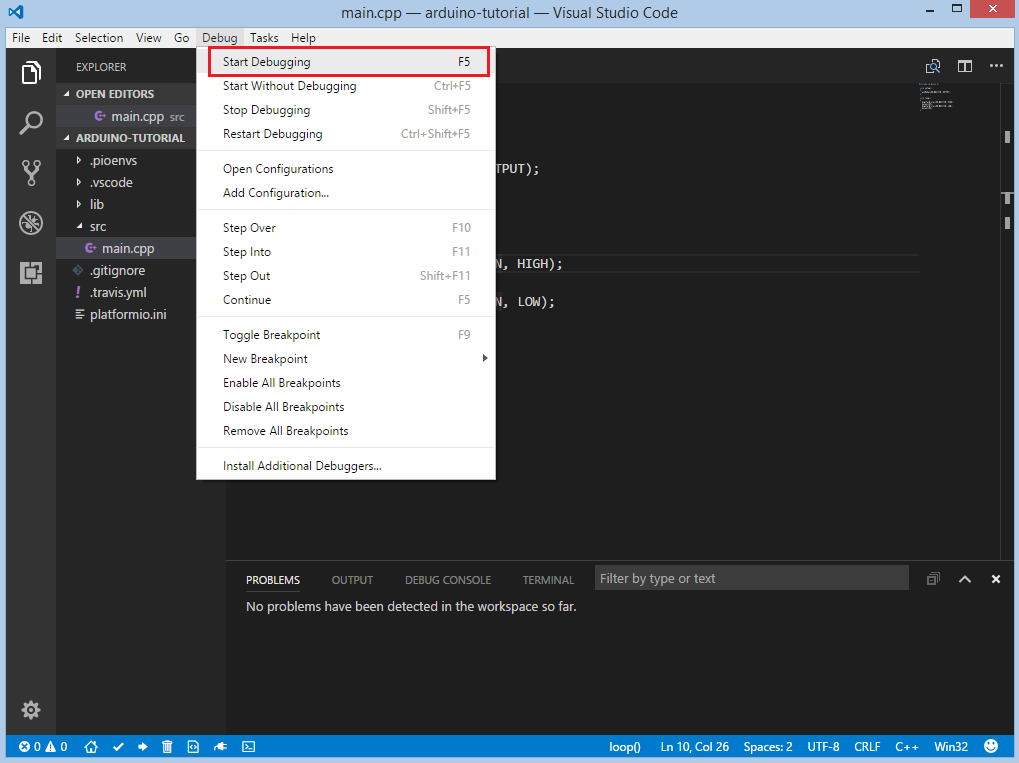
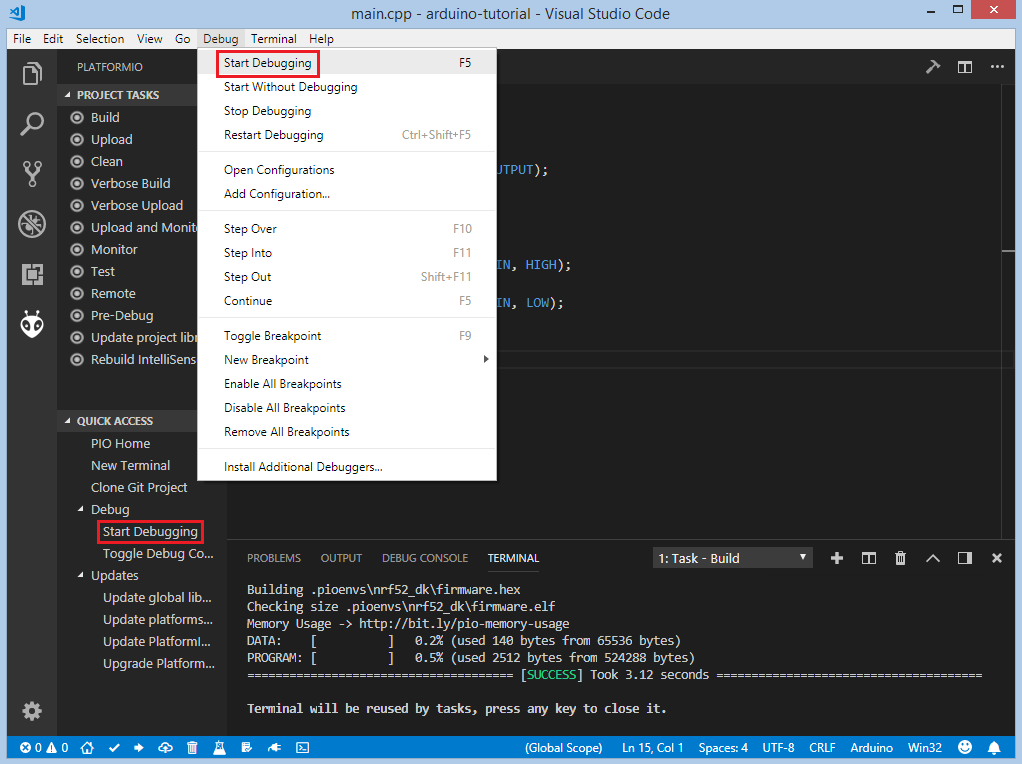
Update Nordic nRF52 tutorial // Issue #33

diff --git a/tutorials/nordicnrf52/arduino_debugging_unit_testing.rst b/tutorials/nordicnrf52/arduino_debugging_unit_testing.rst
@@ -45,7 +45,7 @@ and after these steps, we have a fully configured project that is ready for deve
 Adding Code to the Generated Project
 ------------------------------------
 
-Let's add some actual code to the project. Firstly, we open a default main file named ``main.cpp`` in the :ref:`projectconf_pio_src_dir` folder and replace its content with the next one:
+Let's add some actual code to the project. Firstly, we open a default main file ``main.cpp`` in the :ref:`projectconf_pio_src_dir` folder and replace its contents with the following:
 
 .. code-block:: cpp
 
@@ -71,8 +71,8 @@ After this step, we created a basic blink project ready for compiling and upload
 Compiling and Uploading the Firmware
 ------------------------------------
 
-Now we can build the project. To compile firmware we can use three options:
-Using Build button on :ref:`ide_vscode_toolbar`, using Command Palette ``View: Command Palette > PlatformIO: Build``, using Task Menu ``Tasks: Run Task... > PlatformIO: Build`` or via hotkeys ``cmd-alt-b / ctrl-alt-b``:
+Now we can build the project. To compile firmware we can use next options:
+Build option from the ``Project Tasks`` menu, Build button in :ref:`ide_vscode_toolbar`, Task Menu ``Tasks: Run Task... > PlatformIO: Build`` or in :ref:`ide_vscode_toolbar`, Command Palette ``View: Command Palette > PlatformIO: Build`` or via hotkeys ``cmd-alt-b / ctrl-alt-b``:
 
 .. image:: ../../_static/tutorials/nordicnrf52/arduino-debugging-unit-testing-4.png
 
@@ -80,8 +80,8 @@ If everything went well, we should see a successful result message in the termin
 
 .. image:: ../../_static/tutorials/nordicnrf52/arduino-debugging-unit-testing-5.png
 
-Now we can upload firmware to the board:
-Using Upload button on :ref:`ide_vscode_toolbar`, using Command Palette ``View: Command Palette > PlatformIO: Upload``, using Task Menu ``Tasks: Run Task... > PlatformIO: Upload`` or via hotkeys ``cmd-alt-u / ctrl-alt-u``:
+To upload the firmware to the board we can use next options:
+Upload option from the ``Project Tasks`` menu, Upload button in :ref:`ide_vscode_toolbar`, Command Palette ``View: Command Palette > PlatformIO: Upload``, using Task Menu ``Tasks: Run Task... > PlatformIO: Upload`` or via hotkeys ``cmd-alt-u / ctrl-alt-u``:
 
 .. image:: ../../_static/tutorials/nordicnrf52/arduino-debugging-unit-testing-6.png
 
@@ -90,7 +90,7 @@ After successful uploading, the green LED1 should start blinking.
 Debugging the Firmware
 ----------------------
 
-:ref:`piodebug` offers the easiest way to debug the board. Firstly, we need to specify :ref:`projectconf_debug_tool` in :ref:`projectconf`:
+:ref:`piodebug` offers the easiest way to debug the board. Firstly, we need to specify :ref:`projectconf_debug_tool` in :ref:`projectconf`. Since the board has an on-board ``JLink`` debug probe we can directly declare it in :ref:`projectconf`:
 
 .. code-block:: ini
 
@@ -100,11 +100,12 @@ Debugging the Firmware
     framework = arduino
     debug_tool = jlink
 
-Then we can navigate to the top menu and select ``Debug: Start debugging`` or use hotkey button ``F5``:
+To start the debug session we can use next options:
+``Debug: Start debugging`` from the top menu, ``Start Debugging`` option from Quick Access menu or hotkey button ``F5``:
 
 .. image:: ../../_static/tutorials/nordicnrf52/arduino-debugging-unit-testing-7.png
 
-We need to wait some time while PlatformIO is initializing debug session and when the first line after the main function is highlighted we are ready to debug:
+We need to wait some time while PlatformIO is initializing the debug session and when the first line after the main function is highlighted we are ready to debug:
 
 .. image:: ../../_static/tutorials/nordicnrf52/arduino-debugging-unit-testing-8.png
 
@@ -176,7 +177,7 @@ Let's create ``test`` folder in the root of the project and add a new file ``tes
 
     void setup()
     {
-        delay(2000);
+        delay(2000); // service delay
         UNITY_BEGIN();
 
         RUN_TEST(test_string_concat);
@@ -194,7 +195,8 @@ Let's create ``test`` folder in the root of the project and add a new file ``tes
     }
 
 
-Now we are ready to upload tests to the board. To do this we can use ``Tasks: Run Task... > PlatformIO Test`` from the top menu or Test button on :ref:`ide_vscode_toolbar`:
+Now we are ready to upload tests to the board. To do this we can use next options:
+Test button on :ref:`ide_vscode_toolbar`, Test option from the ``Project Tasks`` menu or ``Tasks: Run Task... > PlatformIO Test`` from the top menu:
 
 .. image:: ../../_static/tutorials/nordicnrf52/arduino-debugging-unit-testing-10.png
 
@@ -225,7 +227,7 @@ Both these modifications can be specified in :ref:`projectconf`:
       BLEPeripheral
 
 Now let's create a basic application that can interact with other BLE devices (e.g phone)
-For example, next code declares a BLE characteristic that controls the state of the LED1
+For example, next code declares a BLE characteristic that controls the state of the LED1.
 
 .. code-block:: cpp
 
